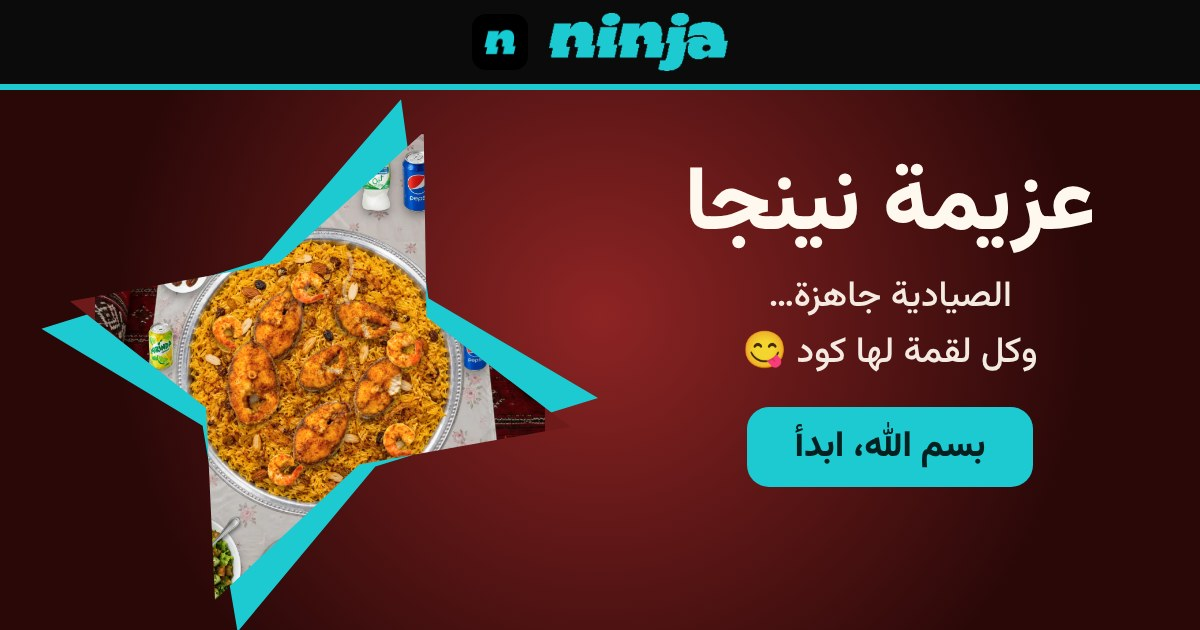
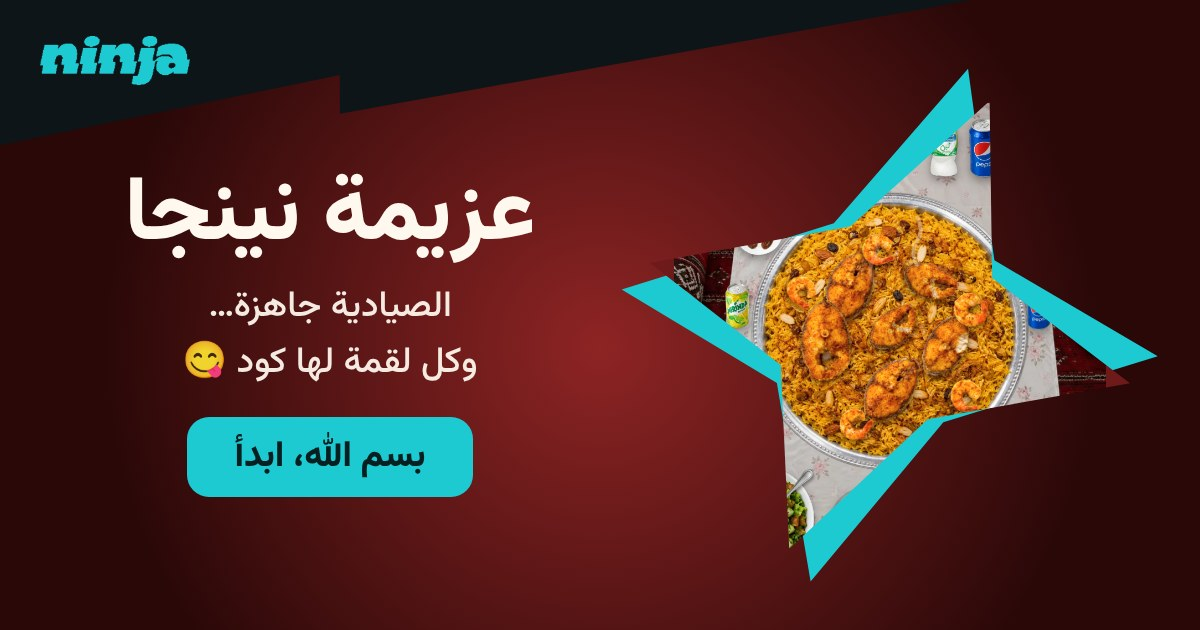
Azeema: preview image with Ninja header
Claude-Session: https://claude.ai/code/session_01JKN7HT8tWtNgYg8V6U5CrC

diff --git a/azeema/index.html b/azeema/index.html
@@ -8,7 +8,7 @@
 <meta property="og:title" content="عزيمة نينجا 🍽">
 <meta property="og:description" content="الصيادية جاهزة… وكل لقمة لها كود 😋">
 <meta property="og:locale" content="ar_SA">
-<meta property="og:type" content="website"><meta property="og:url" content="https://ninja-activity.github.io/azeema/"><meta property="og:site_name" content="Ninja | نينجا"><meta property="og:image" content="https://ninja-activity.github.io/azeema/og.jpg?v=2"><meta property="og:image:width" content="1200"><meta property="og:image:height" content="630"><meta name="twitter:card" content="summary_large_image">
+<meta property="og:type" content="website"><meta property="og:url" content="https://ninja-activity.github.io/azeema/"><meta property="og:site_name" content="Ninja | نينجا"><meta property="og:image" content="https://ninja-activity.github.io/azeema/og.jpg?v=3"><meta property="og:image:width" content="1200"><meta property="og:image:height" content="630"><meta name="twitter:card" content="summary_large_image">
[1 lines of base64/hex data omitted]
 <link rel="preconnect" href="https://fonts.googleapis.com">
 <link href="https://fonts.googleapis.com/css2?family=IBM+Plex+Sans+Arabic:wght@400;500;600;700&family=Poppins:wght@500;600;700;800&display=swap" rel="stylesheet">
